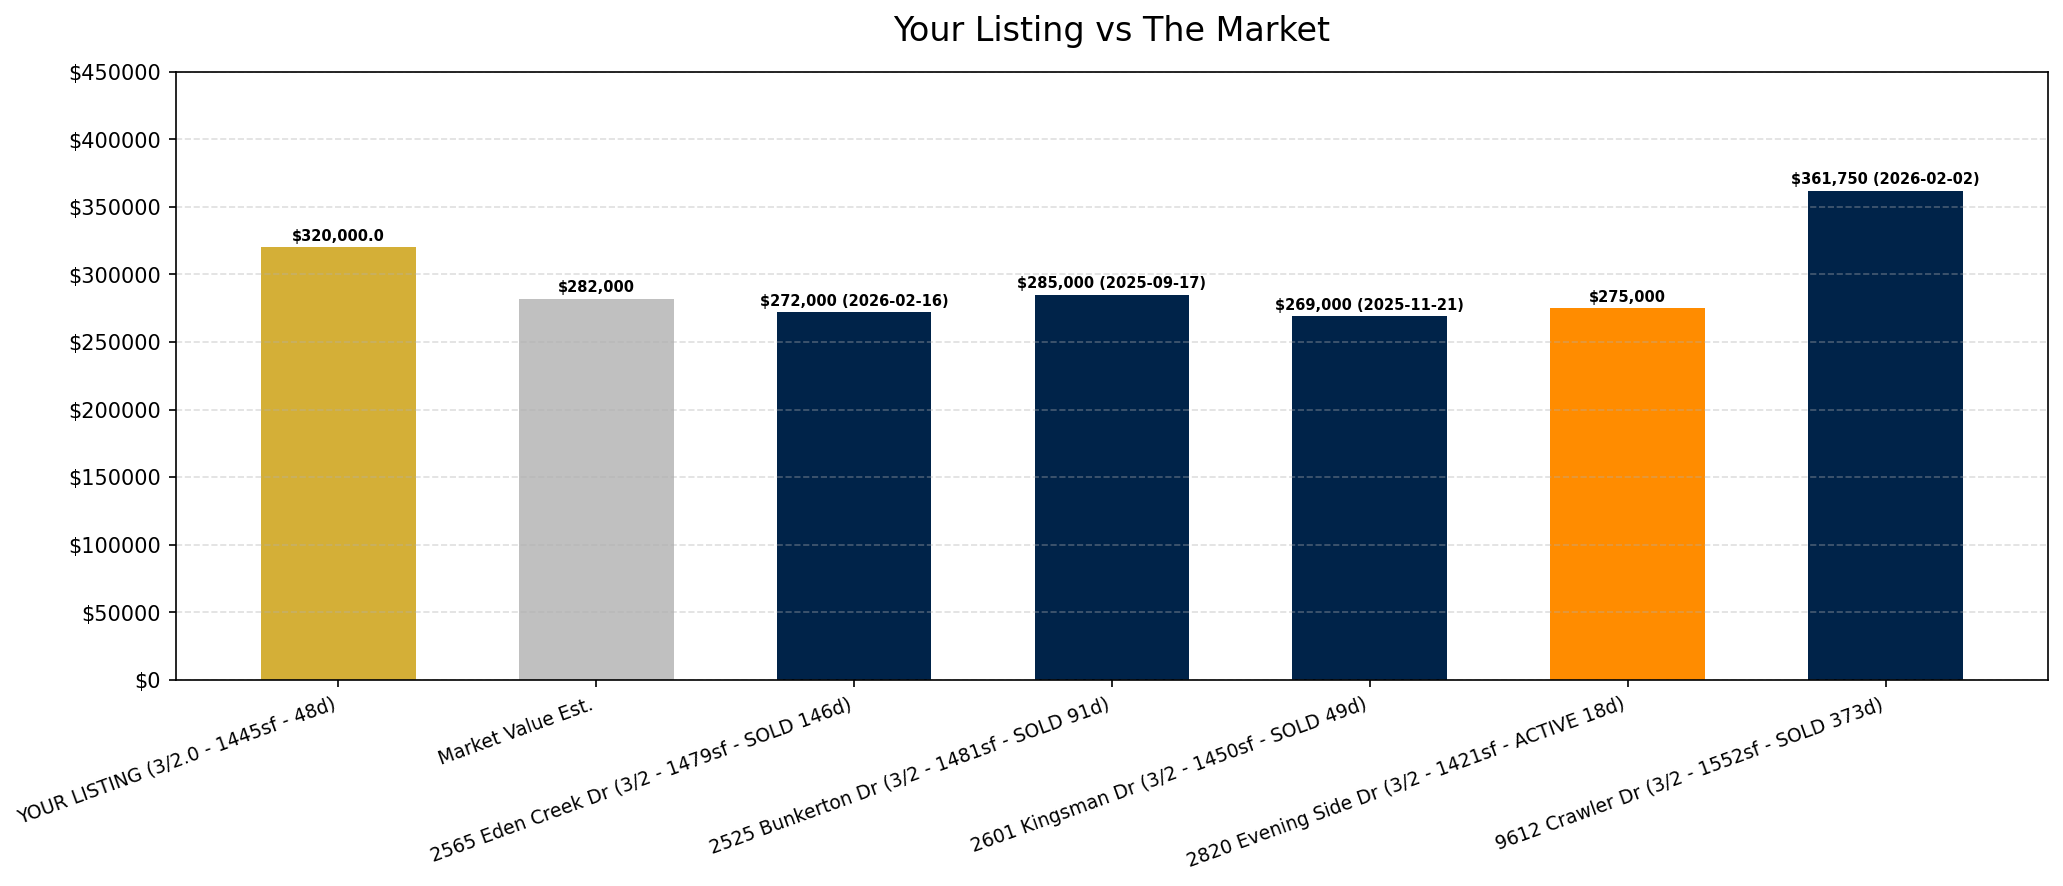
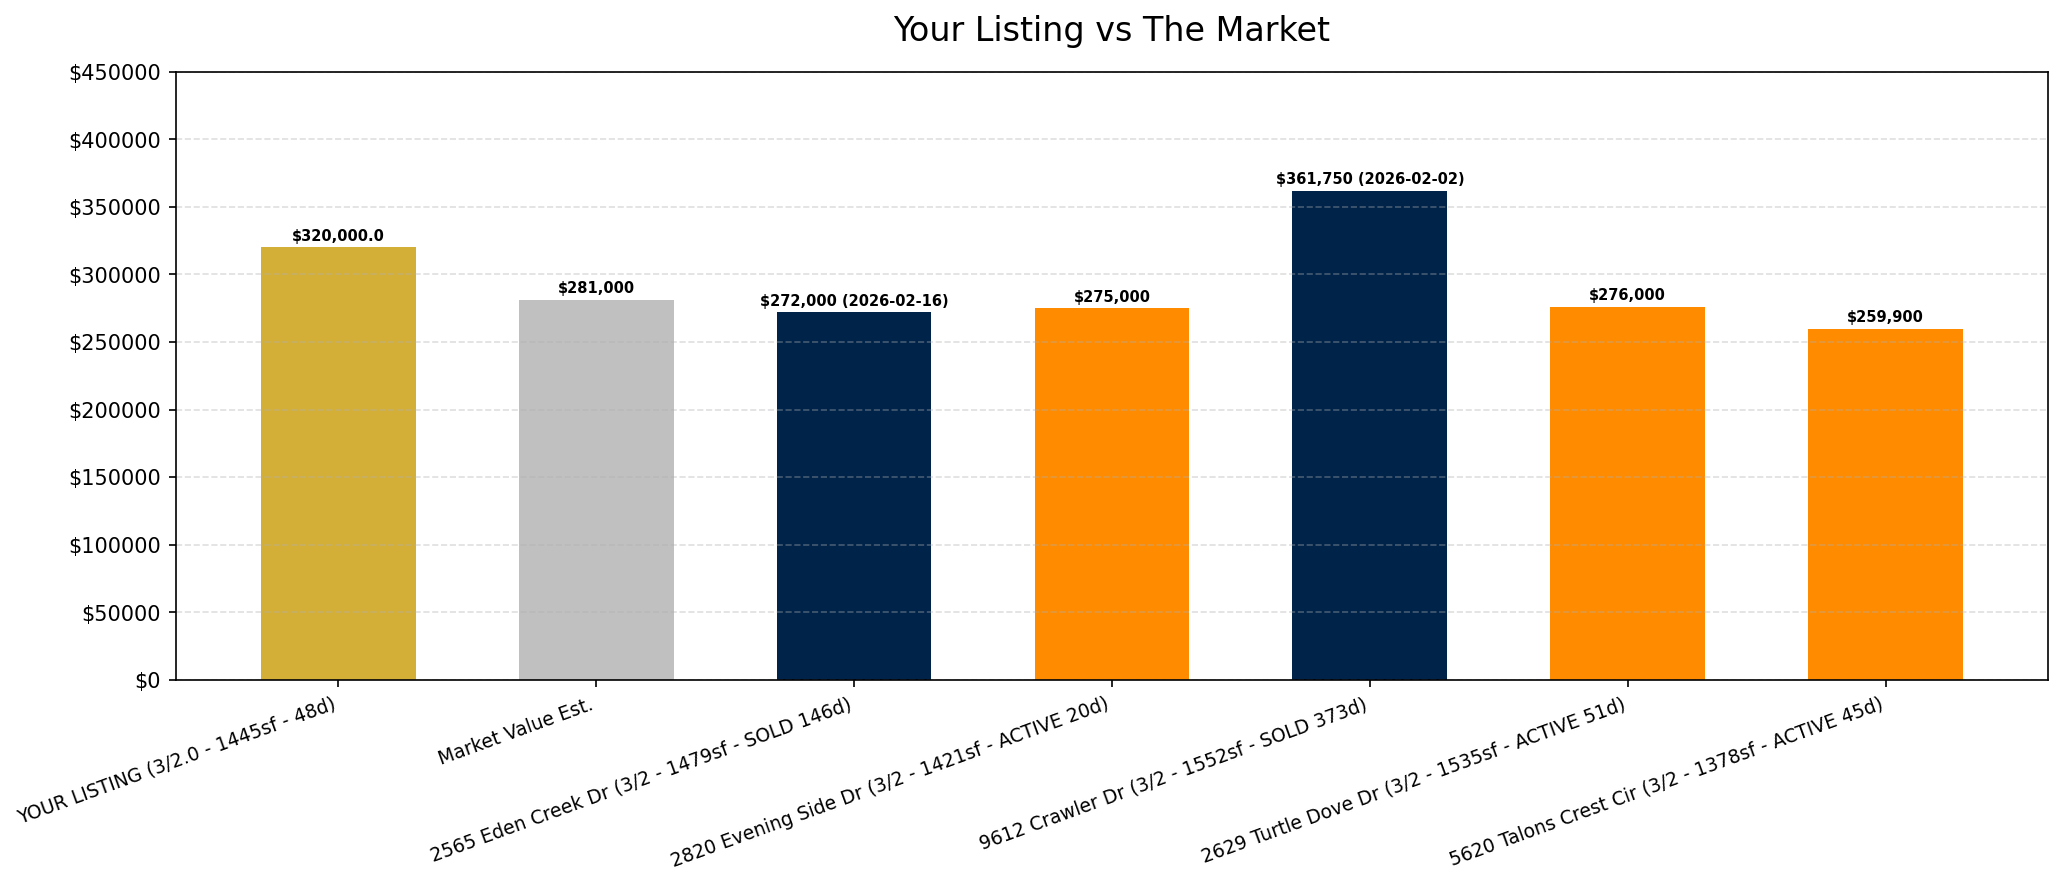
Scraper and comp analysis updates, new photo grids
Made-with: Cursor

diff --git a/comp_analysis.py b/comp_analysis.py
@@ -1,50 +1,95 @@
 import requests
 import json
+import matplotlib
+matplotlib.use("Agg")
+import matplotlib.pyplot as plt
+import matplotlib.ticker as mticker
+import subprocess
 
 RENTCAST_KEY = "dda29a2c21934d8399af4c76678dab2c"
 
-def get_comp_data(address, city, state, beds, baths, sqft, subject_price):
+import datetime
+
+def _fetch_comps_attempt(address, city, state, beds, baths, sqft, subject_price, sqft_pct, max_days):
+    sqft_min = int(sqft * (1 - sqft_pct))
+    sqft_max = int(sqft * (1 + sqft_pct))
     url = (
         "https://api.rentcast.io/v1/avm/value"
-        "?address=" + address.replace(' ', '%20') +
-        "&city=" + city.replace(' ', '%20') +
+        "?address=" + address.replace(" ", "%20") +
+        "&city=" + city.replace(" ", "%20") +
         "&state=" + state +
         "&bedrooms=" + str(beds) +
         "&bathrooms=" + str(baths) +
         "&squareFootage=" + str(sqft) +
-        "&compCount=8"
+        "&compCount=10"
     )
-    res = requests.get(url, headers={"X-Api-Key": RENTCAST_KEY}, timeout=15)
-    if res.status_code != 200:
-        print("RentCast error:", res.status_code, res.text)
-        return None
-    data = res.json()
-    raw_comps = []
-    for c in data.get("comparables", []):
-        if not c.get("price"):
-            continue
-        raw_comps.append({
-            "address": c.get("formattedAddress", "").split(",")[0],
-            "price": c.get("price"),
-            "sqft": c.get("squareFootage"),
-            "beds": c.get("bedrooms"),
-            "baths": c.get("bathrooms"),
-            "dom": c.get("daysOnMarket"),
-            "status": c.get("status"),
-        })
-    filtered = []
-    for c in raw_comps:
-        diff = abs(c["price"] - subject_price) / subject_price
-        if diff <= 0.20:
-            filtered.append(c)
-        else:
-            print("  [OUTLIER REMOVED] " + c["address"] + " $" + str(c["price"]) + " (" + str(round(diff*100)) + "% off)")
-    return {
-        "avm": data.get("price"),
-        "subject_price": subject_price,
-        "comps": filtered[:5]
-    }
+    try:
+        res = requests.get(url, headers={"X-Api-Key": RENTCAST_KEY}, timeout=15)
+        if res.status_code != 200:
+            return [], None
+        data = res.json()
+        cutoff = datetime.datetime.now() - datetime.timedelta(days=max_days)
+        comps = []
+        for c in data.get("comparables", []):
+            if not c.get("price"):
+                continue
+            c_sqft = c.get("squareFootage") or 0
+            if c_sqft and not (sqft_min <= c_sqft <= sqft_max):
+                continue
+            removed = c.get("removedDate", "")
+            status = c.get("status", "")
+            if status == "Inactive" and removed:
+                try:
+                    if datetime.datetime.strptime(removed[:10], "%Y-%m-%d") < cutoff:
+                        continue
+                except Exception:
+                    pass
+            comps.append({
+                "address": c.get("formattedAddress", "").split(",")[0],
+                "price": c.get("price"),
+                "sqft": c_sqft,
+                "beds": c.get("bedrooms"),
+                "baths": c.get("bathrooms"),
+                "dom": c.get("daysOnMarket"),
+                "status": status,
+                "removed_date": removed,
+            })
+        return comps, data.get("price")
+    except Exception as e:
+        print("RentCast error:", e)
+        return [], None
 
+
+def get_comp_data(address, city, state, beds, baths, sqft, subject_price):
+    stages = [
+        (0.15, 90,  beds, baths),
+        (0.15, 180, beds, baths),
+        (0.15, 365, beds, baths),
+        (0.30, 180, beds, baths),
+        (0.30, 365, beds, baths),
+        (0.40, 365, beds, baths),
+        (0.40, 365, beds, 0),
+        (0.40, 365, 0,    0),
+    ]
+    best_comps = []
+    best_avm = None
+    for i, (sqft_pct, max_days, use_beds, use_baths) in enumerate(stages):
+        comps, avm = _fetch_comps_attempt(
+            address, city, state,
+            use_beds or beds, use_baths or baths,
+            sqft, subject_price, sqft_pct, max_days
+        )
+        if avm:
+            best_avm = avm
+        if len(comps) > len(best_comps):
+            best_comps = comps
+        if len(comps) >= 2:
+            print(f"Comps: {len(comps)} found at stage {i+1} (sqft+-{int(sqft_pct*100)}%, {max_days}d)")
+            break
+    if not best_comps:
+        print("Comps: none found after all stages")
+        return None
+    return {"avm": best_avm, "subject_price": subject_price, "comps": best_comps[:5]}
 def build_label(comp):
     beds = comp.get("beds", "?")
     baths = comp.get("baths", "?")
@@ -52,10 +97,7 @@ def build_label(comp):
     dom = comp.get("dom", "?")
     status = comp.get("status", "")
     addr = comp.get("address", "")
-    if status == "Inactive":
-        outcome = "SOLD " + str(dom) + "d"
-    else:
-        outcome = str(status).upper() + " " + str(dom) + "d"
+    outcome = "SOLD " + str(dom) + "d" if status == "Inactive" else str(status).upper() + " " + str(dom) + "d"
     return addr + " (" + str(beds) + "/" + str(baths) + " - " + str(sqft) + "sf - " + outcome + ")"
 
 def build_color(comp):
@@ -68,66 +110,74 @@ def build_color(comp):
     else:
         return "#002349"
 
-def generate_quickchart_url(comp_data):
-    if not comp_data or not comp_data["comps"]:
-        return ""
+def build_bar_label(comp):
+    price = "$" + "{:,}".format(comp["price"])
+    removed = comp.get("removed_date", "")
+    if removed and len(removed) >= 10:
+        date = removed[:10]
+        return price + " (" + date + ")"
+    return price
+
+def generate_chart_image(comp_data, output_path, subject_beds=None, subject_baths=None, subject_sqft=None, subject_dom=None):
     subject_price = comp_data["subject_price"]
     avm = comp_data["avm"]
     comps = comp_data["comps"]
-    all_prices = [subject_price, avm] + [c["price"] for c in comps]
-    y_min = int(min(all_prices) * 0.97)
-    y_max = int(max(all_prices) * 1.03)
-    labels = ["YOUR LISTING", "Market Value Est."] + [build_label(c) for c in comps]
+    subject_label = "YOUR LISTING"
+    if subject_beds and subject_baths and subject_sqft and subject_dom:
+        subject_label = "YOUR LISTING (" + str(subject_beds) + "/" + str(subject_baths) + " - " + str(subject_sqft) + "sf - " + str(subject_dom) + "d)"
+    labels = [subject_label, "Market Value Est."] + [build_label(c) for c in comps]
     data = [subject_price, avm] + [c["price"] for c in comps]
-    bg_colors = ["#D4AF37", "#C0C0C0"] + [build_color(c) for c in comps]
-    chart = {
-        "type": "bar",
-        "data": {
-            "labels": labels,
-            "datasets": [{
-                "label": "Price",
-                "data": data,
-                "backgroundColor": bg_colors,
-                "barPercentage": 0.75,
-                "categoryPercentage": 0.85
-            }]
-        },
-        "options": {
-            "plugins": {
-                "legend": {"display": False},
-                "title": {"display": True, "text": "Your Listing vs The Market", "font": {"size": 16}}
-            },
-            "scales": {
-                "y": {
-                    "min": y_min,
-                    "max": y_max,
-                    "ticks": {"callback": "(val) => '$' + val.toLocaleString()"}
-                }
-            }
-        }
-    }
-    config_str = json.dumps(chart)
-    return "https://quickchart.io/chart?c=" + requests.utils.quote(config_str) + "&width=900&height=450&bkg=%23ffffff"
-
-
-def generate_chart_image(comp_data):
-    """
-    Same as generate_quickchart_url: returns a QuickChart URL for the comp bar chart.
-    Exists so audit_generator (and others) can import generate_chart_image.
-    """
-    return generate_quickchart_url(comp_data)
-
+    colors = ["#D4AF37", "#C0C0C0"] + [build_color(c) for c in comps]
+    bar_labels = ["$" + "{:,}".format(subject_price), "$" + "{:,}".format(avm)] + [build_bar_label(c) for c in comps]
+    fig, ax = plt.subplots(figsize=(14, 6))
+    bars = ax.bar(range(len(labels)), data, color=colors, width=0.6)
+    ax.set_xticks(range(len(labels)))
+    ax.set_xticklabels(labels, rotation=20, ha="right", fontsize=9)
+    ax.set_ylim(0, int((max(data) * 1.15) / 50000 + 1) * 50000)
+    ax.yaxis.set_major_locator(mticker.MultipleLocator(50000))
+    ax.yaxis.set_major_formatter(mticker.FuncFormatter(lambda x, p: "$" + str(int(x))))
+    ax.set_title("Your Listing vs The Market", fontsize=16, pad=15)
+    ax.grid(axis="y", linestyle="--", alpha=0.4)
+    for bar, label in zip(bars, bar_labels):
+        ax.text(bar.get_x() + bar.get_width()/2, bar.get_height() + 3000,
+                label, ha="center", va="bottom", fontsize=7, fontweight="bold")
+    plt.tight_layout()
+    plt.savefig(output_path, dpi=150, bbox_inches="tight")
+    plt.close()
+    return output_path
 
 if __name__ == "__main__":
-    import subprocess
     result = get_comp_data("2544 Bunkerton Drive", "Fort Worth", "TX", 3, 2, 1445, 320000)
     if result:
-        print("AVM: $" + str(result["avm"]))
-        print("Subject: $" + str(result["subject_price"]))
-        print("Comps after outlier filter:")
-        for c in result["comps"]:
-            print("  " + build_label(c) + " - $" + str(c["price"]))
-        url = generate_quickchart_url(result)
-        print("Chart URL:")
-        print(url)
-        subprocess.run(["open", url])
+        path = "/Users/danielvega/Desktop/comp_chart.png"
+        generate_chart_image(result, path)
+        print("Chart saved to:", path)
+        subprocess.run(["open", path])
+
+def generate_comp_narrative(comp_data, claude_key):
+    subject_price = comp_data["subject_price"]
+    avm = comp_data["avm"]
+    comps = comp_data["comps"]
+    gap = subject_price - avm
+    sold = [c for c in comps if c["status"] == "Inactive"]
+    active = [c for c in comps if c["status"] == "Active"]
+    sold_doms = [c["dom"] for c in sold if c.get("dom")]
+    avg_sold_dom = int(sum(sold_doms) / len(sold_doms)) if sold_doms else None
+    sold_prices = [c["price"] for c in sold]
+    avg_sold_price = int(sum(sold_prices) / len(sold_prices)) if sold_prices else None
+    context = "Subject price: $" + str(subject_price) + ". Market value estimate: $" + str(avm) + ". Gap: $" + str(gap) + " above market."
+    if avg_sold_price:
+        context += " Average sold comp price: $" + str(avg_sold_price) + "."
+    if avg_sold_dom:
+        context += " Average days on market for sold comps: " + str(avg_sold_dom) + " days."
+    if active:
+        context += " There is " + str(len(active)) + " active competing listing(s) priced lower."
+    prompt = "You are writing page 3 of a real estate marketing audit being dropped at a sellers door. They just read page 2 which explained their marketing failures. Now they are looking at a bar chart comparing their listing price to sold comps and a market value estimate. Write exactly 2 short paragraphs. No headers. No bullet points. No bold. No em dashes. Paragraph 1: Narrate what the chart is showing. Reference the bars visually without naming specific addresses or prices. Tell them their home is priced above what the market has been paying. Be direct but not harsh. Do not blame them. Paragraph 2: Tell them what the sold homes had in common - they were priced where the market was. Connect a small price adjustment combined with better marketing to getting their home sold. End with quiet confidence not a sales pitch. Keep it under 120 words total. Write in the same warm direct voice as the audit they just read. MARKET DATA: " + context
+    import requests
+    headers = {"x-api-key": claude_key, "anthropic-version": "2023-06-01", "content-type": "application/json"}
+    payload = {"model": "claude-sonnet-4-6", "max_tokens": 400, "messages": [{"role": "user", "content": prompt}]}
+    try:
+        res = requests.post("https://api.anthropic.com/v1/messages", headers=headers, json=payload, timeout=30)
+        return res.json().get("content", [{}])[0].get("text", "")
+    except:
+        return ""

diff --git a/earl_forensics.py b/earl_forensics.py
@@ -72,7 +72,7 @@ def run_earl_audit(mls):
             img.save(buf, format="JPEG", quality=85)
             parts.append({"inline_data": {"mime_type": "image/jpeg", "data": base64.b64encode(buf.getvalue()).decode()}})
 
-    parts.insert(0, {"text": "Scan these MLS listing photos and return a JSON object with these exact keys. Only flag TRUE if you are confident. Be strict. bad_lead_photo: true if first photo is NOT a proper front exterior. poor_photo_sequence: true ONLY if the sequence is extremely and obviously chaotic - like repeatedly jumping between exterior and interior shots with no pattern at all. Do NOT flag if photos simply start outside and move inside room by room. When in doubt, do NOT flag this. no_professional_photography: true if photos look like phone snapshots. poor_photography_quality: true if professional camera but poor execution. floor_plan_in_photos: true ONLY if a photo shows an actual interior floor plan blueprint of the house itself showing room layouts and walls. Do NOT flag neighborhood maps, site plans, subdivision maps, or aerial views. virtual_tour_in_photos: true if ANY photo shows a Matterport or 3D tour screenshot. visual_notes: brief summary. Return ONLY valid JSON, nothing else."})
+    parts.insert(0, {"text": "Scan these MLS listing photos and return a JSON object with these exact keys. Only flag TRUE if you are confident. Be strict. bad_lead_photo: true ONLY if first photo is clearly an interior room, a blurry/dark shot, a vertical phone photo with dead space on sides, or has no subject. A clean front exterior shot - even if not perfect - should NEVER be flagged. When in doubt, do NOT flag. poor_photo_sequence: true ONLY if the sequence is extremely and obviously chaotic - like repeatedly jumping between exterior and interior shots with no pattern at all. Do NOT flag if photos simply start outside and move inside room by room. When in doubt, do NOT flag this. no_professional_photography: true ONLY if photos are clearly casual phone snapshots with no editing - poor lighting, tilted angles, clutter visible. Do NOT flag if photos are decent quality even if not magazine-level. When in doubt, do NOT flag. poor_photography_quality: true ONLY if photos show obvious problems like severe overexposure, extreme darkness, heavy motion blur, or badly distorted compositions. Wide-angle lens distortion is normal in real estate photography - do NOT flag it. When in doubt, do NOT flag. floor_plan_in_photos: true ONLY if a photo shows an actual interior floor plan blueprint of the house itself showing room layouts and walls. Do NOT flag neighborhood maps, site plans, subdivision maps, or aerial views. virtual_tour_in_photos: true if ANY photo shows a Matterport or 3D tour screenshot. visual_notes: brief summary. Return ONLY valid JSON, nothing else."})
     print("Gemini scanning photos...")
     try:
         with httpx.Client(timeout=120.0) as client:

diff --git a/working_scraper.py b/working_scraper.py
@@ -65,7 +65,7 @@ def scrape_listing_data(page):
             dim_clean = dim.strip()
             all_rooms.append({"room": room_clean, "dimensions": dim_clean})
             is_key_room = any(k in room_clean.lower() for k in ["bedroom", "primary", "living room", "living area"])
-            if is_key_room and dim_clean in ["1 x 1", "1x1"]:
+            if is_key_room and dim_clean in ["1 x 1", "1x1", "0 x 0", "0x0"]:
                 missing_dims.append(room_clean)
         key_room_names = ["bedroom", "primary", "living room", "living area"]
         found_key_rooms = [r["room"].lower() for r in all_rooms if any(k in r["room"].lower() for k in key_room_names)]
